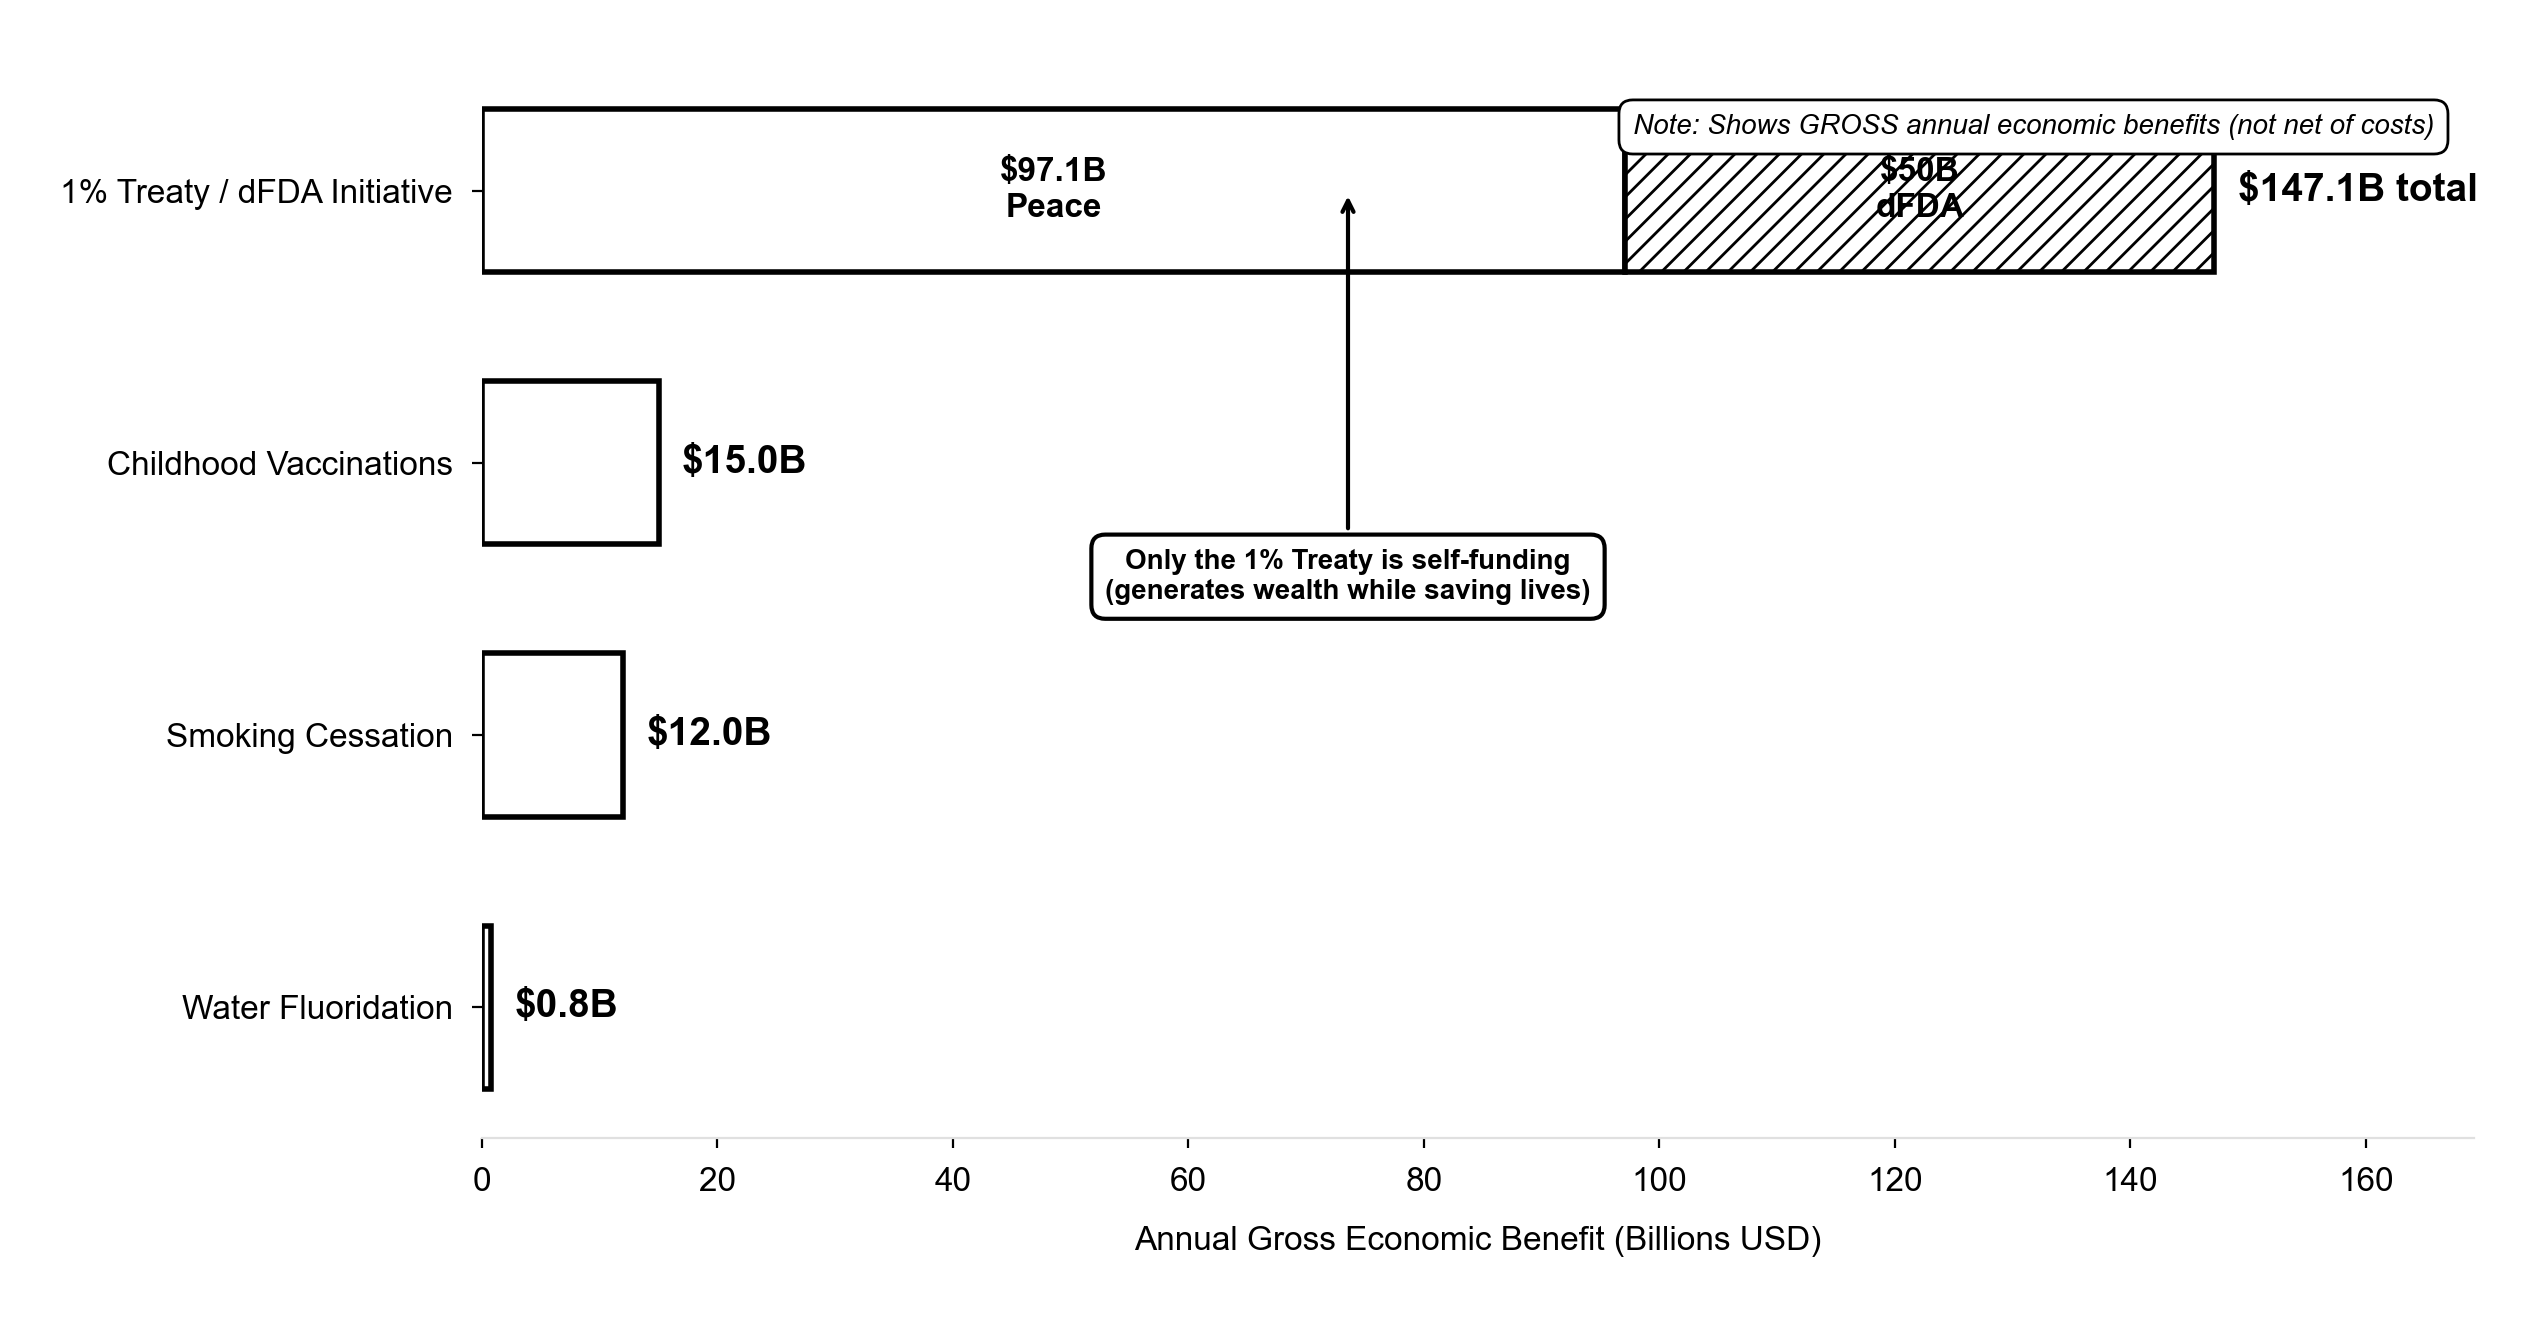
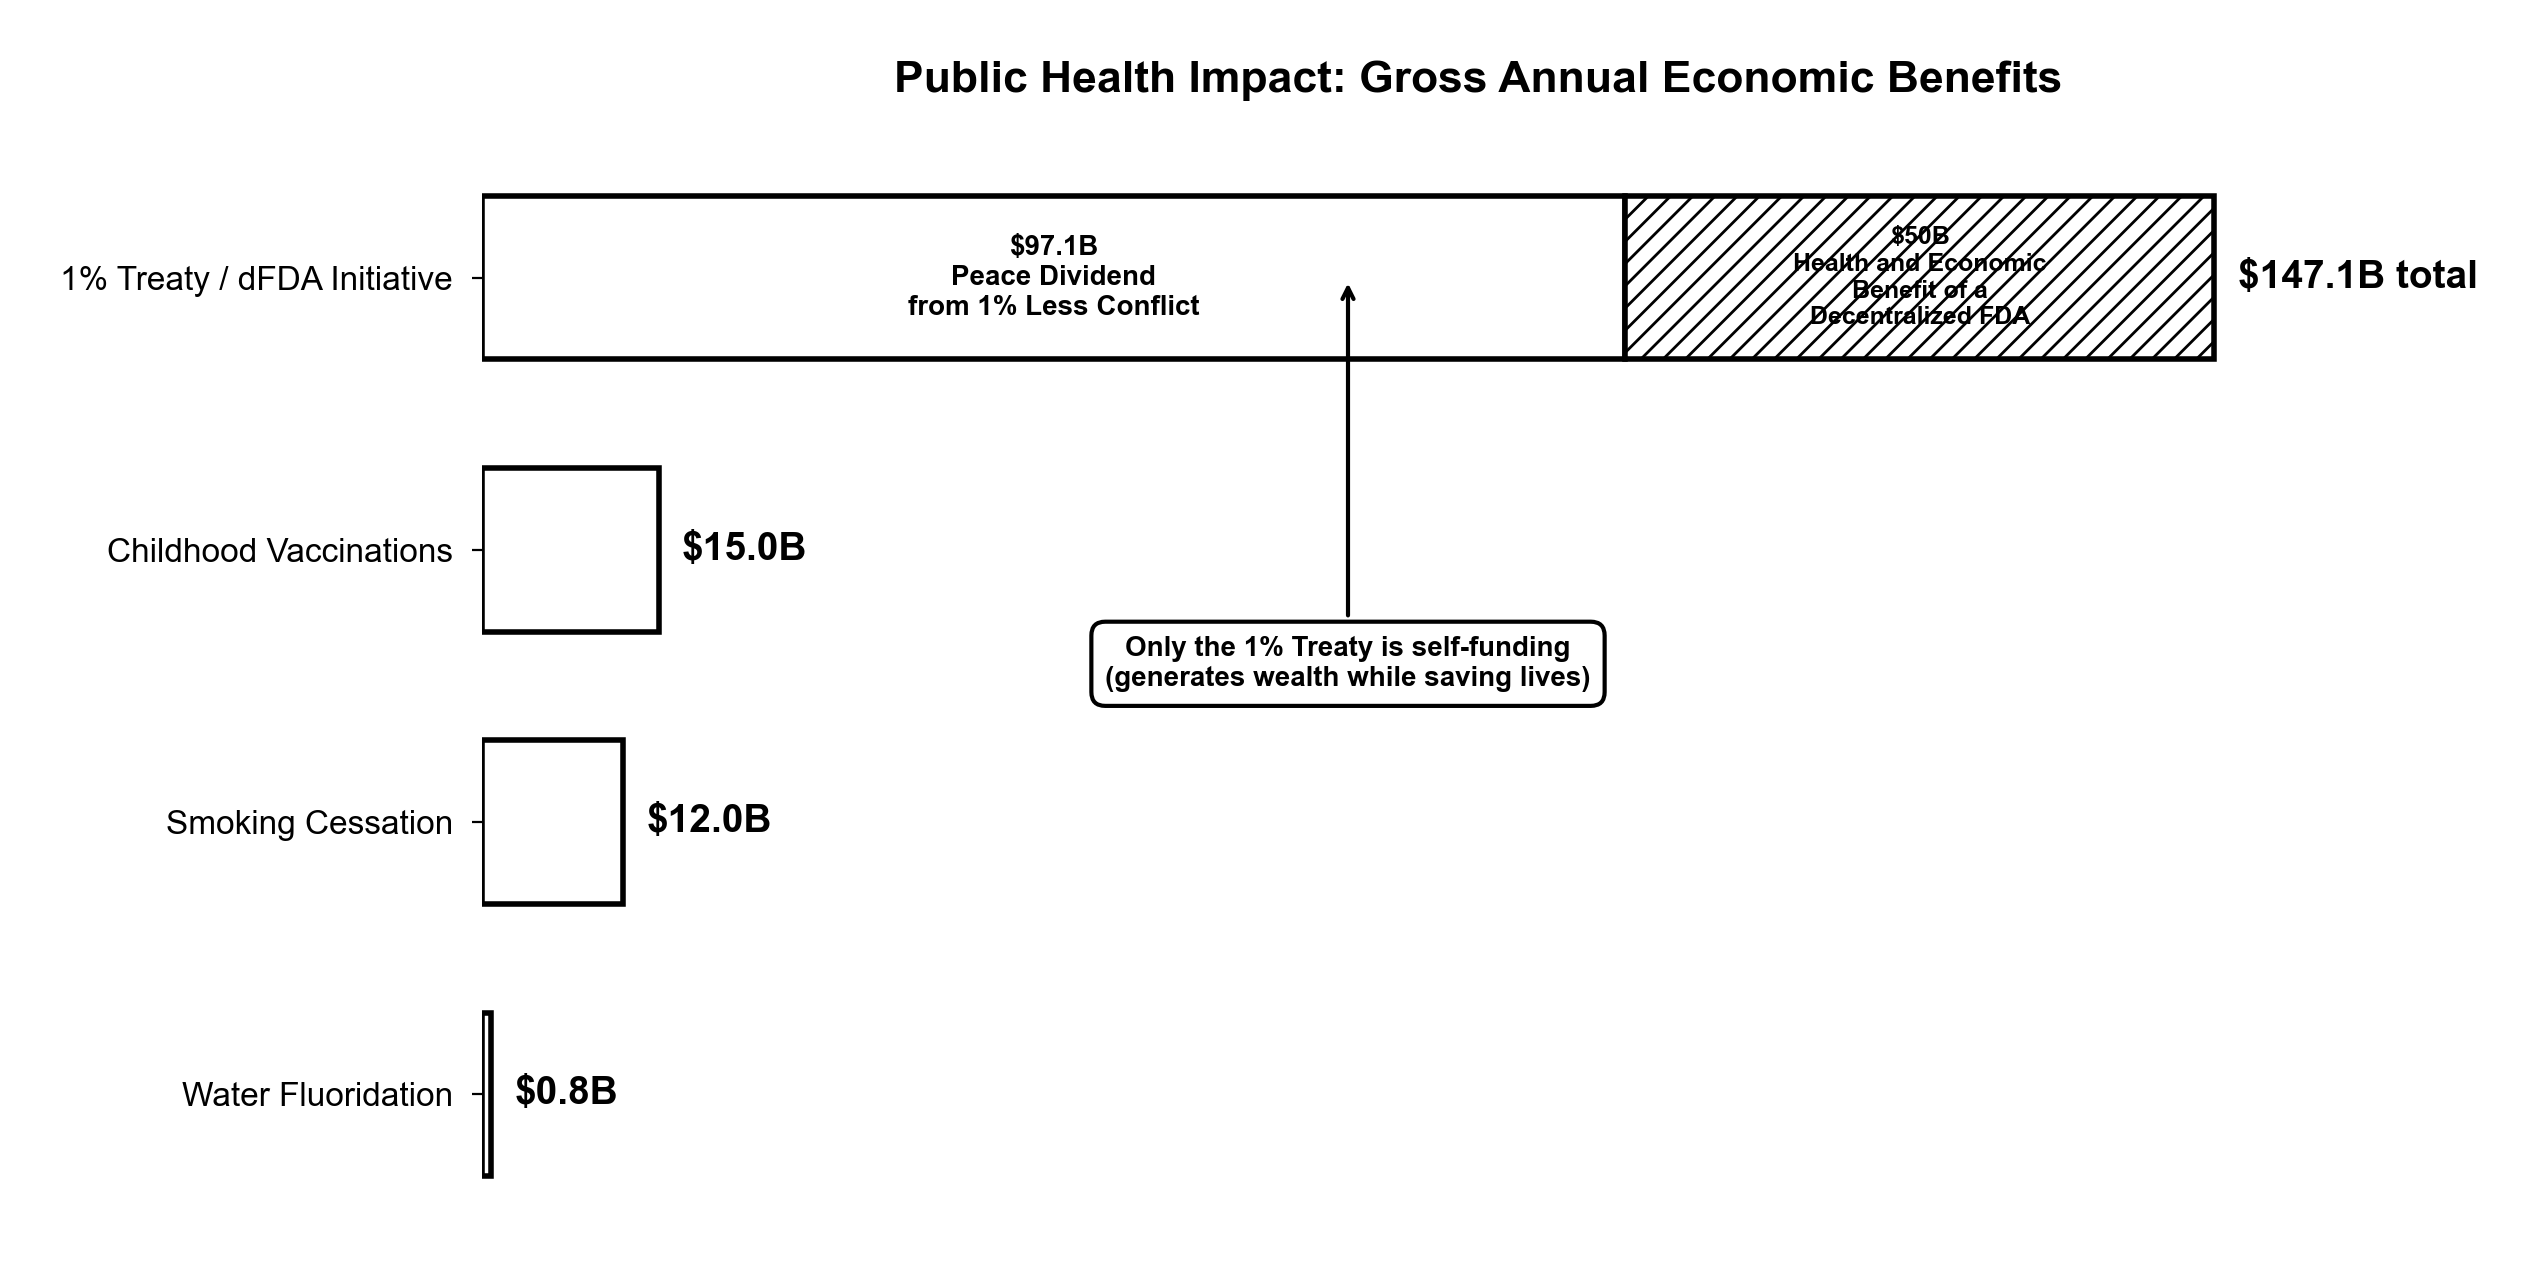
Refactor _quarto.yml to update book description and streamline chapter titles. Removed unnecessary chapter entries for clarity. Adjusted DESIGN_GUIDE.md to emphasize minimalist chart design rules and added a title to the chart example. Minor formatting updates in index.qmd and pitch-4-hnwi.qmd for c

diff --git a/DESIGN_GUIDE.md b/DESIGN_GUIDE.md
@@ -186,16 +186,11 @@ These margins are automatically set by `setup_chart_style()` but can be adjusted
 ## Minimalist Chart Design Rules
 
 **What to Include:**
+- **Chart title** - Clear, concise title at the top (16-18pt bold) makes charts self-documenting
 - Data bars (white fill with black outline, use solid black for emphasis)
 - Y-axis with scale (ONLY when columns aren't all labeled with amounts)
 - Key data values (large, bold, impossible to miss)
 - Watermark (required)
-
-**Chart Reusability Rule:**
-- **NO titles in chart code** - Context provides the title (chapter heading, figure caption, etc.)
-- **NO explanatory text in charts** - The surrounding document explains the chart
-- **Charts must work in ANY context** - Book, website, presentation, social media
-- This allows the same chart to be included with different captions and contexts
 
 **Label Placement (Tufte-approved):**
 - Put labels directly ON the data (on bars, lines, points)
@@ -222,12 +217,10 @@ These margins are automatically set by `setup_chart_style()` but can be adjusted
 - Check the generated PNG - if text is cut off, shorten or reduce font size
 
 **What to Remove:**
-- **Chart titles** - ALWAYS remove (context provides the title via captions/headings)
 - **Gridlines** - Remove unless absolutely necessary for readability
 - **Y-axis entirely** - Remove on column charts when all columns show numeric labels
 - **X-axis labels** - Remove when labels are on the bars themselves
 - **Legends** - Remove (use direct labels on data instead)
-- **Explanatory text** - Remove (the surrounding document explains the chart)
 - **Backgrounds/fills** - Remove (pure white only)
 - **Borders, shadows, gradients, 3D effects** - Remove all decorative effects
 - **Extra annotations, callouts, arrows** - Remove unless critical for understanding
@@ -277,7 +270,8 @@ bar1 = ax.bar(0, values[0], color=COLOR_WHITE, edgecolor=COLOR_BLACK, linewidth=
 bar2 = ax.bar(1, values[1], color=COLOR_WHITE, edgecolor=COLOR_BLACK, linewidth=2, hatch=PATTERN_DIAGONAL)
 bar3 = ax.bar(2, values[2], color=COLOR_BLACK, edgecolor=COLOR_BLACK, linewidth=2)  # Solid black for emphasis
 
-# Add labels (no title needed)
+# Add title and labels
+ax.set_title('Chart Title Here', fontsize=16, color=COLOR_BLACK, weight='bold', pad=20)
 ax.set_ylabel('Y-Axis Label', fontsize=12, color=COLOR_BLACK)
 
 # --- 3. Add the Watermark ---
